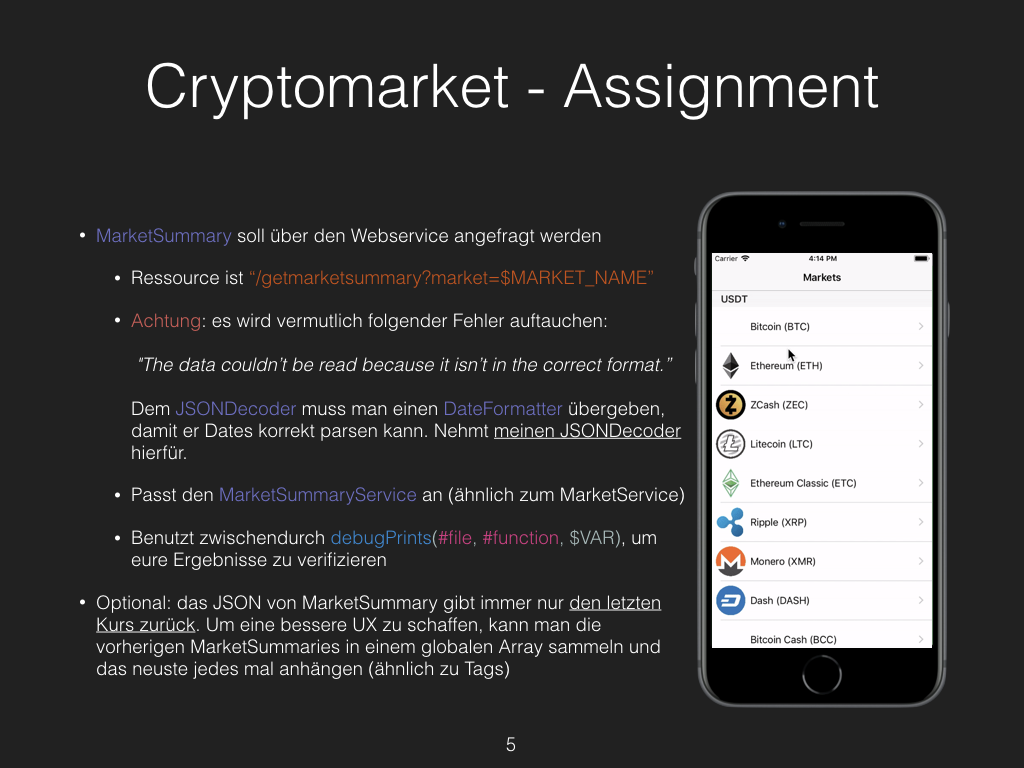
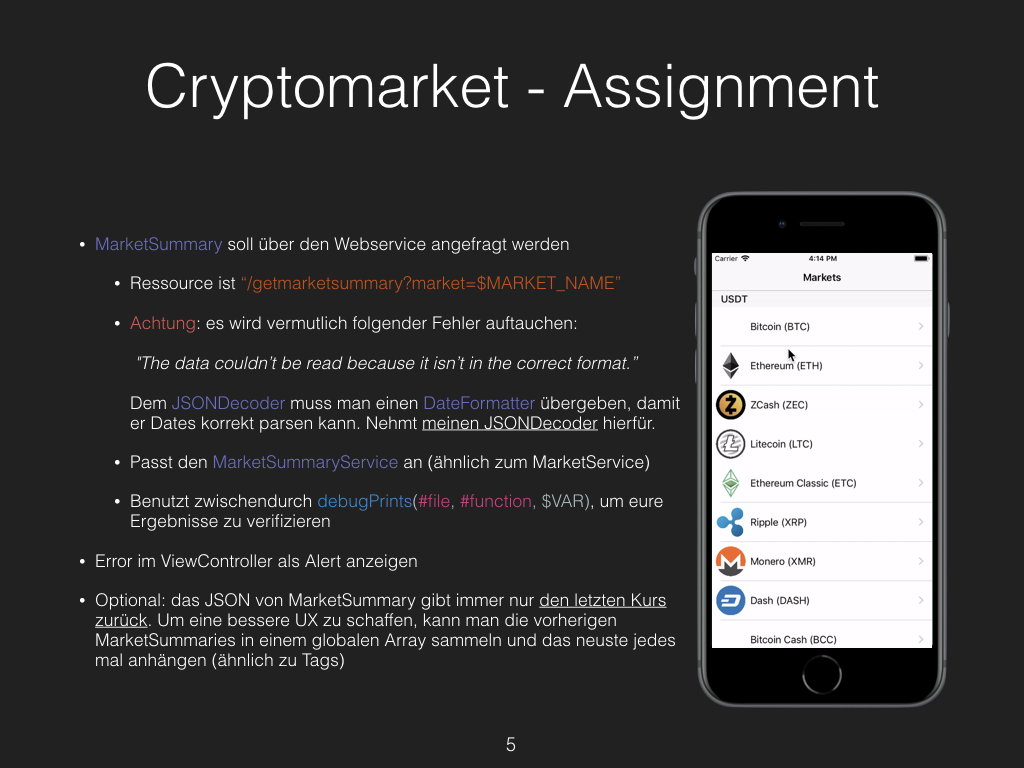
demo and assignment for 09

Changed region(s): [[0.0938, 0.4688, 0.6562, 0.875], [0.0938, 0.2812, 0.625, 0.375], [0.125, 0.4062, 0.5938, 0.4375]]

diff --git a/SS18/09_memorymanagement&networking&jsonparsing/demo/Cryptomarket/Cryptomarket/Model/Market/MarketService.swift b/SS18/09_memorymanagement&networking&jsonparsing/demo/Cryptomarket/Cryptomarket/Model/Market/MarketService.swift
@@ -9,12 +9,37 @@
 import Foundation
 
 final class MarketService {
+
+    private let webservice: Webservice
+    private let ressource: Ressource<MarketResult>
     
-    func markets() -> [Market] {
-        return [
-            Market(baseCurrency: "USDT", logoUrl: URL(string: "https://bittrex.com/Content/img/symbols/BTC.png")!, currency: "BTC", currencyLong: "Bitcoin", name: "USDT-BTC", active: true),
-            Market(baseCurrency: "USDT", logoUrl: URL(string: "https://bittrexblobstorage.blob.core.windows.net/public/a2b8eaee-2905-4478-a7a0-246f212c64c6.png")!, currency: "XRP", currencyLong: "Ripple", name: "USDT-XRP", active: true),
-            Market(baseCurrency: "BTC", logoUrl: URL(string: "https://bittrexblobstorage.blob.core.windows.net/public/a7cb51db-1e6d-47f5-89b5-afbfc766b01b.png")!, currency: "ENG", currencyLong: "Enigma", name: "BTC-ENG", active: true)
-        ]
+    static func `default`() -> MarketService {
+        let url = URL(string: "\(NetworkingConstants.BaseURL)getmarkets")!
+        
+        return MarketService(
+            webservice: Webservice(),
+            ressource: Ressource<MarketResult>(url: url) { data -> MarketResult in
+                try JSONDecoder().decode(MarketResult.self, from: data)
+            }
+        )
+    }
+    
+    private init(webservice: Webservice, ressource: Ressource<MarketResult>) {
+        self.webservice = webservice
+        self.ressource = ressource
+    }
+    
+    func markets(completion: @escaping (Result<[Market]>) -> Void) {
+        webservice.request(ressource, completion: { (result: Result<MarketResult>) in
+            switch result {
+            case .success(let value):
+                if value.success {
+                    completion(.success(value.result))
+                } else {
+                    completion(.failure(NetworkingConstants.error(domain: "MarketService")))
+                }
+            case .failure(let error): completion(.failure(error))
+            }
+        })
     }
 }

diff --git a/SS18/09_memorymanagement&networking&jsonparsing/demo/Cryptomarket/Cryptomarket/Networking/Webservice.swift b/SS18/09_memorymanagement&networking&jsonparsing/demo/Cryptomarket/Cryptomarket/Networking/Webservice.swift
@@ -1,0 +1,47 @@
+//
+//  Webservice.swift
+//  Cryptomarket
+//
+//  Created by Alex on 13.06.18.
+//  Copyright © 2018 Alexander Dobrynin. All rights reserved.
+//
+
+import Foundation
+
+struct Ressource<T> {
+    let url: URL
+    let parse: (Data) throws -> T
+}
+
+enum Result<T> {
+    case success(T)
+    case failure(Error)
+}
+
+class Webservice {
+    
+    func request<T>(_ ressource: Ressource<T>, completion: @escaping (Result<T>) -> Void, timeout: TimeInterval = 5.0) {
+        let request = URLRequest(url: ressource.url, cachePolicy: .reloadIgnoringCacheData, timeoutInterval: timeout)
+        
+        let task = URLSession.shared.dataTask(with: request) { (data, reponse, webError) in
+            let result: Result<T>
+            
+            if let data = data {
+                do {
+                    let json = try ressource.parse(data)
+                    result = .success(json)
+                } catch {
+                    result = .failure(error)
+                }
+            } else {
+                result = .failure(webError!)
+            }
+            
+            DispatchQueue.main.async {
+                completion(result)
+            }
+        }
+        
+        task.resume() // fire request
+    }
+}

diff --git a/SS18/09_memorymanagement&networking&jsonparsing/demo/Cryptomarket/Cryptomarket/ViewController/Market/MarketsTableViewController.swift b/SS18/09_memorymanagement&networking&jsonparsing/demo/Cryptomarket/Cryptomarket/ViewController/Market/MarketsTableViewController.swift
@@ -22,7 +22,7 @@ class MarketsTableViewController: UITableViewController {
     
     // MARK: - Private Properties
     
-    private let service = MarketService()
+    private let service = MarketService.default()
 
     // MARK: - ViewController Lifecycle
     
@@ -38,10 +38,18 @@ class MarketsTableViewController: UITableViewController {
     override func viewWillAppear(_ animated: Bool) {
         super.viewWillAppear(animated)
         
-        self.markets = service.markets()
-            .filter { $0.active }
-            .groupBy { $0.baseCurrency }
-            .sorted { $0.key > $1.key }
+        service.markets { result in
+            switch result {
+            case .success(let markets):
+                self.markets = markets
+                    .filter { $0.active }
+                    .groupBy { $0.baseCurrency } // ["USDT": [BTC, XRP], "BTC": [ENG]]
+                    .sorted { $0.key > $1.key } // [("USDT", [BTC, XRP]), ("BTC", [ENG])]
+            case .failure(let error):
+                print(error.localizedDescription) // FIXME: present error with alter view controller
+            }
+
+        }
     }
     
     // MARK: - Table view data source

diff --git a/SS18/09_memorymanagement&networking&jsonparsing/demo/Cryptomarket/Cryptomarket/Networking/ImageLoader.swift b/SS18/09_memorymanagement&networking&jsonparsing/demo/Cryptomarket/Cryptomarket/Networking/ImageLoader.swift
@@ -1,0 +1,28 @@
+//
+//  ImageLoader.swift
+//  Cryptomarket
+//
+//  Created by Alex on 13.06.18.
+//  Copyright © 2018 Alexander Dobrynin. All rights reserved.
+//
+
+import Foundation
+import UIKit
+
+final class ImageLoader {
+    
+    static let shared = ImageLoader()
+    
+    private init() { }
+    
+    func image(by url: URL, completion: @escaping (UIImage?, URL) -> Void) {
+        DispatchQueue.global(qos: .userInitiated).async {
+            let data = try? Data.init(contentsOf: url) // blockt
+            let img = data.flatMap(UIImage.init)
+            
+            DispatchQueue.main.async {
+                completion(img, url)
+            }
+        }
+    }
+}

diff --git a/SS18/09_memorymanagement&networking&jsonparsing/demo/Cryptomarket/Cryptomarket/Model/Market/Market.swift b/SS18/09_memorymanagement&networking&jsonparsing/demo/Cryptomarket/Cryptomarket/Model/Market/Market.swift
@@ -8,11 +8,25 @@
 
 import Foundation
 
-struct Market {
+struct Market: Codable {
     let baseCurrency: String
-    let logoUrl: URL
+    let logoUrl: URL?
     let currency: String
     let currencyLong: String
     let name: String
     let active: Bool
+    
+    enum CodingKeys: String, CodingKey {
+        case baseCurrency = "BaseCurrency"
+        case logoUrl = "LogoUrl"
+        case currency = "MarketCurrency"
+        case currencyLong = "MarketCurrencyLong"
+        case name = "MarketName"
+        case active = "IsActive"
+    }
+}
+
+struct MarketResult: Codable {
+    let success: Bool
+    let result: [Market]
 }

diff --git a/SS18/09_memorymanagement&networking&jsonparsing/demo/Cryptomarket/Cryptomarket/View/Market/MarketTableViewCell.swift b/SS18/09_memorymanagement&networking&jsonparsing/demo/Cryptomarket/Cryptomarket/View/Market/MarketTableViewCell.swift
@@ -28,7 +28,7 @@ class MarketTableViewCell: UITableViewCell {
     private func fetchImage(_ url: URL) {
         dedicatedUrl = url
         
-        ImageLoader.shared.imageBy(url: url) { (img, reqUrl) in
+        ImageLoader.shared.image(by: url) { (img, reqUrl) in
             guard reqUrl == self.dedicatedUrl else { return }
             
             self.marketImageView.image = img
